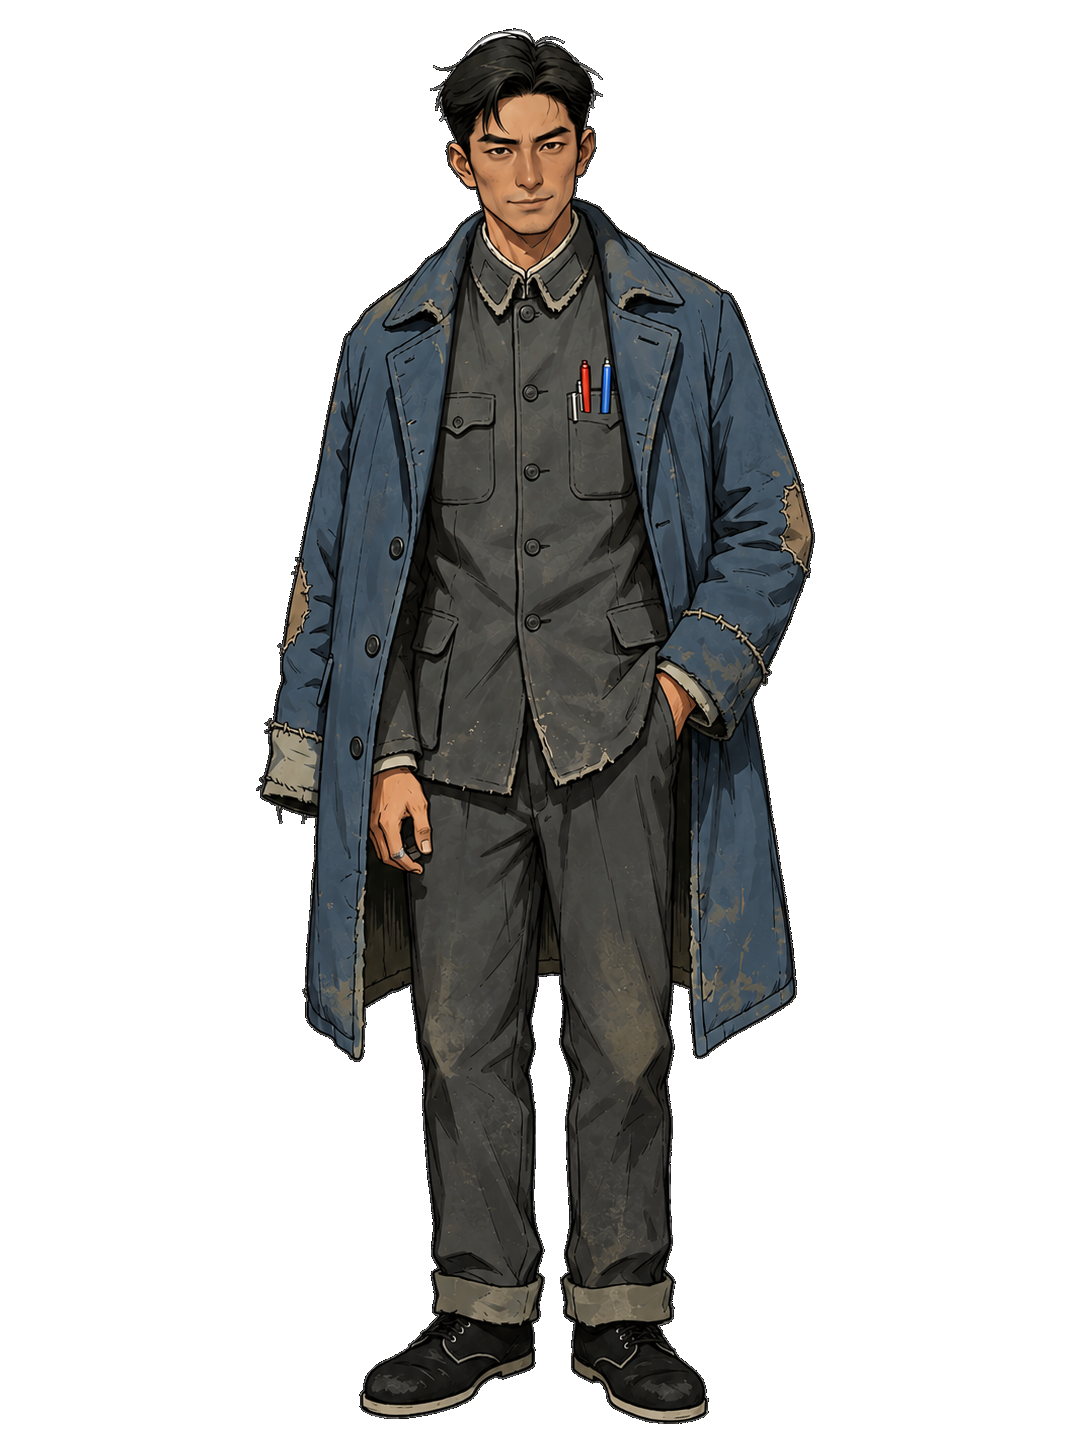
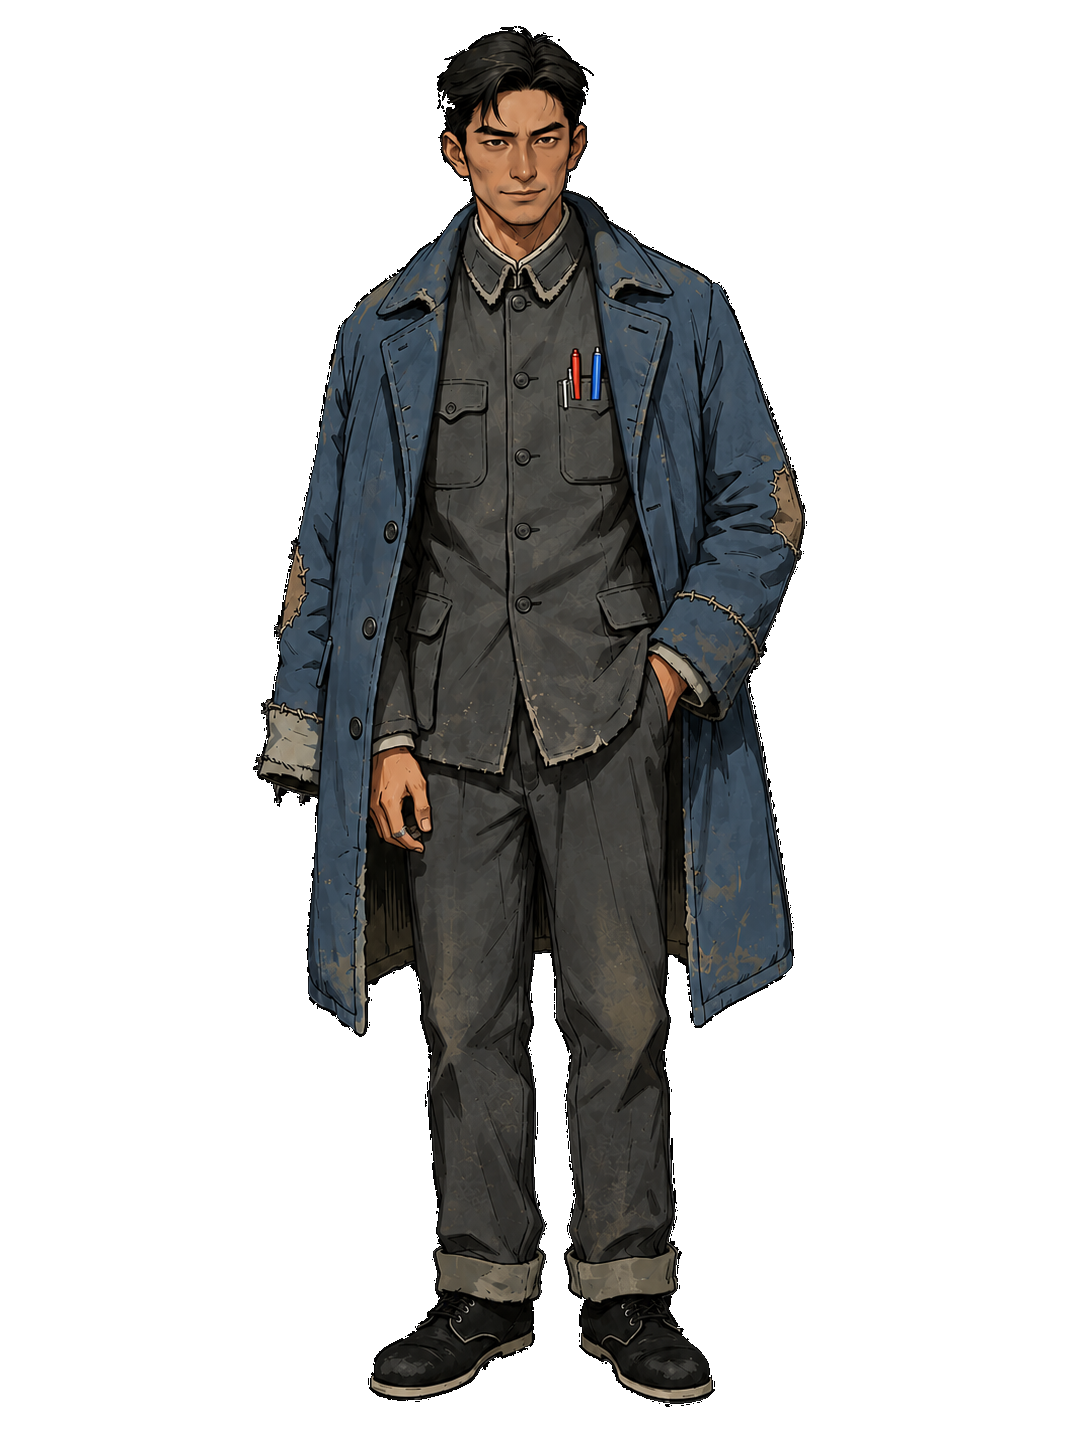
新增图片，还未更改图片放大的问题

Changed region(s): [[0.2127, 0.0, 0.7597, 0.9945]]

diff --git a/baisha_chenyan/templates/game.html b/baisha_chenyan/templates/game.html
@@ -21,7 +21,7 @@ body {
     position: absolute; inset: 0;
     background: linear-gradient(135deg, #3d2a1a 0%, #1a0a00 100%);
     background-size: cover;
-    background-position: center top;
+    background-position: center;
     transition: background-image 0.5s ease;
 }
 
@@ -123,7 +123,7 @@ body {
 }
 
 .dialogue-text {
-    font-size: 24px; line-height: 1.65;
+    font-size: 26px; line-height: 1.65;
     color: #f5ecd8;
     min-height: 44px;
     max-height: 12vh;

diff --git a/baisha_chenyan/app.py b/baisha_chenyan/app.py
@@ -79,7 +79,7 @@ def save_overrides(data):
         json.dump(data, f, ensure_ascii=False, indent=2)
 
 def apply_overrides(node_id, dialogue):
-    """返回叠加覆盖后的 (speaker, text, bg, portrait, portrait_position, next_id)。"""
+    """返回叠加覆盖后的 (speaker, text, bg, portrait, portrait_position, next_id, choices)。"""
     overrides = load_overrides().get(node_id, {})
     speaker = overrides.get('speaker') or dialogue.get('speaker', '')
     text = overrides.get('text') if overrides.get('text') is not None else dialogue.get('text', '')
@@ -87,7 +87,8 @@ def apply_overrides(node_id, dialogue):
     portrait = overrides.get('portrait') or dialogue.get('portrait')
     portrait_position = overrides.get('portrait_position') or dialogue.get('portrait_position')
     next_id = overrides.get('next') if overrides.get('next') is not None else dialogue.get('next')
-    return speaker, text, bg, portrait, portrait_position, next_id
+    choices = overrides.get('choices') if overrides.get('choices') is not None else dialogue.get('choices', [])
+    return speaker, text, bg, portrait, portrait_position, next_id, choices
 
 def get_custom_nodes():
     """返回自定义节点字典 {id: {speaker, text, next, bg?, portrait?}}。"""
@@ -4324,13 +4325,13 @@ def dialogue_api():
         dialogue = DIALOGUES.get('n00001', {})
         session['current_dialogue'] = dialogue_id
 
-    speaker, text, bg, portrait, portrait_position, next_id = apply_overrides(dialogue_id, dialogue)
+    speaker, text, bg, portrait, portrait_position, next_id, choices = apply_overrides(dialogue_id, dialogue)
 
     return jsonify({
         'id': dialogue_id,
         'speaker': speaker,
         'text': text,
-        'choices': dialogue.get('choices', []),
+        'choices': choices,
         'next': next_id,
         'background_image': bg,
         'portrait': portrait,